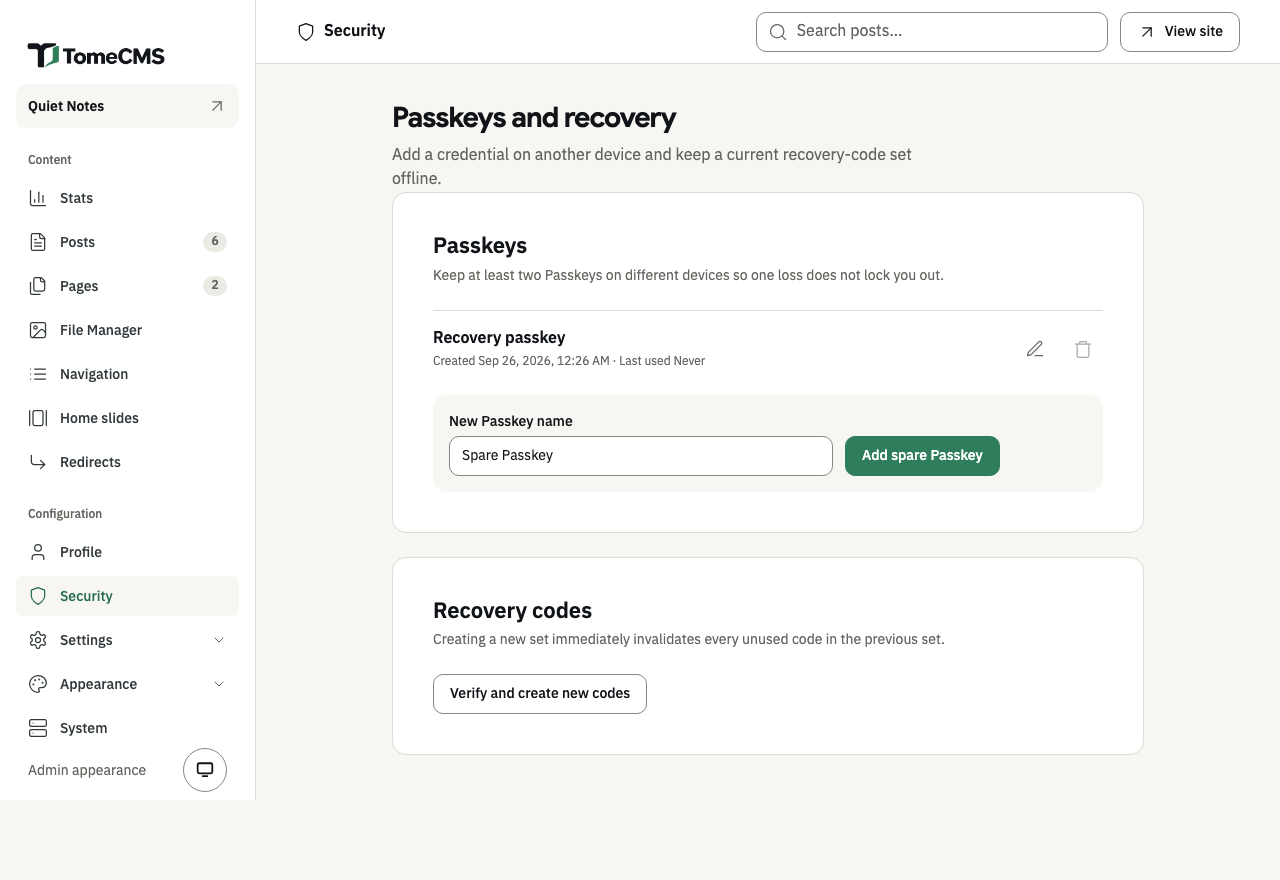
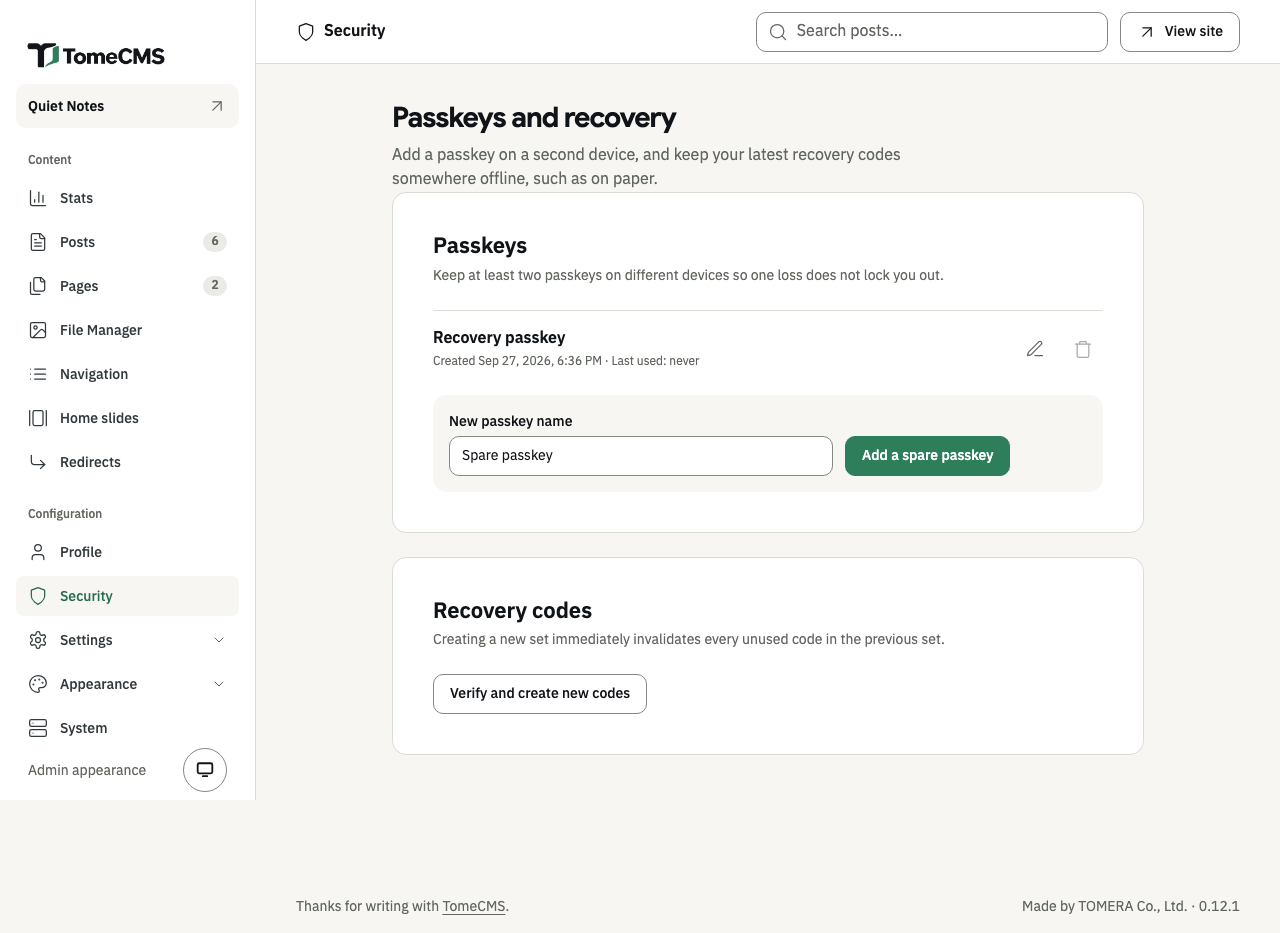
docs: the screenshots and their descriptions show the admin's new words
Retakes all 30 admin screenshots (15 screens, English and Thai) so they
show the plainer, consistent copy from the earlier tasks, and rewrites
every image's alt text to match: quoting the real labels, fixing two
alt texts that had always described the wrong language's tab, and
updating numbers the stats screenshot's 30-day window naturally moves.
Adds a changelog line summarizing the copy pass, and fixes a stale
em-dash assertion in tests/e2e/stats.spec.ts that the earlier "no
dashes" fix had missed.

diff --git a/tests/e2e/stats.spec.ts b/tests/e2e/stats.spec.ts
@@ -178,7 +178,7 @@ test('a site that has never counted a reader shows the report at zero, with an e
   const summary = page.locator('.stats-summary > div');
   await expect(summary.nth(0).locator('.stats-summary__value')).toHaveText('0');
   await expect(summary.nth(1).locator('.stats-summary__value')).toHaveText('0');
-  await expect(summary.nth(2).locator('.stats-summary__value')).toContainText('—');
+  await expect(summary.nth(2).locator('.stats-summary__value')).toContainText('-');
   await expect(summary.nth(2).locator('.stats-summary__value .sr-only')).toHaveText('No reads yet');
   for (let index = 0; index < 3; index += 1) {
     await expect(summary.nth(index).locator('.stats-summary__change'), 'no change arrow at zero').toHaveText('Nothing to compare with yet');

diff --git a/website/src/content/docs/th/admin/settings.md b/website/src/content/docs/th/admin/settings.md
@@ -56,7 +56,7 @@ sidebar:
 
 เมนู "ความปลอดภัย" เปิดหน้า "Passkey และการกู้คืน" TomeCMS ไม่มีรหัสผ่าน คุณเข้าสู่ระบบด้วย passkey ที่เก็บอยู่ในอุปกรณ์ของคุณ หน้านี้ใช้เพิ่ม passkey อันที่สอง และสร้างรหัสกู้คืนชุดใหม่ เพื่อไม่ให้การเสียอุปกรณ์เครื่องเดียวทำให้เข้าระบบไม่ได้
 
-![หน้า "Passkey และการกู้คืน" ในส่วน "Passkey ทั้งหมด" มี passkey หนึ่งอันชื่อ Recovery passkey สร้างเมื่อ 26 ก.ย. 2569 และยังไม่เคยใช้ มีปุ่มรูปดินสอและถังขยะอยู่ข้าง ๆ ข้างล่างมีช่อง "ชื่อ Passkey ใหม่" และปุ่ม "เพิ่ม Passkey สำรอง" ในส่วน "รหัสกู้คืน" มีปุ่ม "ยืนยันตัวตนแล้วสร้างรหัสชุดใหม่"](../../../../assets/screenshots/th/security.png)
+![หน้า "Passkey และการกู้คืน" ในส่วน "Passkey ทั้งหมด" มี passkey หนึ่งอันชื่อ Recovery passkey สร้างเมื่อ 27 ก.ย. 2569 และยังไม่เคยใช้ มีปุ่มรูปดินสอและถังขยะอยู่ข้าง ๆ ข้างล่างมีช่อง "ชื่อ passkey ใหม่" และปุ่ม "เพิ่ม passkey สำรอง" ในส่วน "รหัสกู้คืน" มีปุ่ม "ยืนยันตัวตนแล้วสร้างรหัสชุดใหม่"](../../../../assets/screenshots/th/security.png)
 
 ### Passkey ของคุณ
 
@@ -78,4 +78,4 @@ sidebar:
 
 เมนู "ปิดปรับปรุง" ใต้ "ตั้งค่า" ใช้ปิดหน้าเว็บสาธารณะระหว่างที่คุณปรับปรุงเว็บ และแสดงหน้าที่คุณเลือกให้ผู้เข้าชมเห็นแทน หน้า[ปิดปรับปรุง](/tome-cms/th/running/maintenance/) อธิบายหน้านี้ทีละขั้น
 
-![หน้า "ปิดปรับปรุง" ในส่วน "สถานะ" บอกว่าเว็บเปิดให้ทุกคนเข้าชมตามปกติ และสวิตช์ "ปิดเว็บเพื่อปรับปรุง" ปิดอยู่ ในส่วน "แบบ" มี "เรียบง่าย" ซึ่งถูกเลือกไว้ "โลโก้" "รูปภาพ" และ "นับถอยหลัง" ในส่วน "ข้อความที่แสดง" เลือกแท็บ "ไทย" ไว้ ช่องหัวข้อและรายละเอียดมีข้อความภาษาไทยสีเทา ในส่วน "กลับมาประมาณ" ช่อง "วันและเวลา" ว่างอยู่ ปุ่ม "บันทึก" และ "ดูตัวอย่าง" อยู่ด้านล่าง](../../../../assets/screenshots/th/maintenance.png)
+![หน้า "ปิดปรับปรุง" ในส่วน "สถานะ" บอกว่าเว็บเปิดให้ทุกคนเข้าชมตามปกติ และสวิตช์ "ปิดเว็บเพื่อปรับปรุง" ปิดอยู่ ในส่วน "แบบ" มี "เรียบง่าย" ซึ่งถูกเลือกไว้ "โลโก้" "ภาพ" และ "นับถอยหลัง" ในส่วน "ข้อความที่แสดง" เลือกแท็บ "ไทย" ไว้ ช่องหัวข้อและรายละเอียดมีข้อความภาษาไทยสีเทา ในส่วน "กลับมาประมาณ" ช่อง "วันและเวลา" ว่างอยู่ ปุ่ม "บันทึก" และ "ดูตัวอย่าง" อยู่ด้านล่าง](../../../../assets/screenshots/th/maintenance.png)

diff --git a/website/src/content/docs/th/running/updating.md b/website/src/content/docs/th/running/updating.md
@@ -9,7 +9,7 @@ TomeCMS ตอนนี้ยังเป็นรุ่นพรีวิวก
 
 หน้าแอดมินยังติดตั้งอัปเดตเองไม่ได้ ที่เมนู "ระบบ" จะแสดงเวอร์ชันของคุณไว้ข้าง "เวอร์ชันที่ติดตั้งอยู่:" และตรวจกับ repository ทางการบน GitHub ได้ว่ามีรุ่น stable ที่ใหม่กว่าหรือยัง ในการติดตั้งตอนนี้ หน้านั้นจะขึ้นว่า "อัปเดตจากหน้าผู้ดูแลไม่ได้" และ "โหมดการอัปเดต:" เป็น "แจ้งเตือนอย่างเดียว" การตรวจจะเทียบเวอร์ชันของคุณกับเวอร์ชันล่าสุดที่ออกเป็น GitHub release โดย 0.12.1 เป็นเวอร์ชันแรก เว็บที่ติดตั้งจาก 0.12.0 จึงจะเห็นว่ามี 0.12.1 ให้อัปเดต
 
-![หน้า "ระบบ" หัวข้อ "อัปเดตระบบ" มีการ์ด "สถานะการอัปเดต" ที่มี "สถานะเวอร์ชัน: เป็นเวอร์ชันล่าสุดแล้ว", "เวอร์ชันที่ติดตั้งอยู่: 0.12.1", "เวอร์ชันเสถียรล่าสุด: 0.12.1", "เผยแพร่เมื่อ: 26 ก.ย. 2569" และ "TomeCMS เป็นเวอร์ชันล่าสุดแล้ว" มีลิงก์ "อ่านบันทึกการเปลี่ยนแปลง" และปุ่ม "ตรวจสอบอีกครั้ง" ด้านล่างเป็นการ์ด "ใช้การอัปเดตแบบจัดการให้ไม่ได้" ที่บอกว่า "การติดตั้งนี้ตั้งค่าให้ตรวจสอบเวอร์ชันใหม่ได้อย่างเดียว" และ "โหมดการอัปเดต:" เป็น "check-only"](../../../../assets/screenshots/th/system.png)
+![หน้า "ระบบ" หัวข้อ "อัปเดตระบบ" มีการ์ด "สถานะการอัปเดต" ที่มี "สถานะเวอร์ชัน: เป็นเวอร์ชันล่าสุดแล้ว", "เวอร์ชันที่ติดตั้งอยู่: 0.12.1", "เวอร์ชันเสถียรล่าสุด: 0.12.1", "เผยแพร่เมื่อ: 26 ก.ย. 2569" และ "TomeCMS เป็นเวอร์ชันล่าสุดแล้ว" มีลิงก์ "อ่านบันทึกการเปลี่ยนแปลง" และปุ่ม "ตรวจสอบอีกครั้ง" ด้านล่างเป็นการ์ด "อัปเดตจากหน้าผู้ดูแลไม่ได้" ที่บอกว่า "เซิร์ฟเวอร์นี้แจ้งได้ว่ามีเวอร์ชันใหม่ แต่ติดตั้งเองไม่ได้ ถ้าจะอัปเดต ให้ทำตามคู่มือการอัปเดตบนเซิร์ฟเวอร์" และ "โหมดการอัปเดต:" เป็น "แจ้งเตือนอย่างเดียว"](../../../../assets/screenshots/th/system.png)
 
 ## อัปเกรดเว็บที่เป็น 0.x
 

diff --git a/website/src/content/docs/admin/settings.md b/website/src/content/docs/admin/settings.md
@@ -45,7 +45,7 @@ Press "Save". When you change the site name, the language or the time zone, the 
 
 "Profile" is the author the site shows with your writing. Nothing here is required.
 
-![The Profile screen with three cards. "Identity" has an empty "Author name", a "Choose avatar" button and "No avatar selected". "Bio" has two empty fields, one marked English and one marked Thai. "Links" says links you add appear under your author bio, above an "Add link" button. "Save" is at the bottom.](../../../assets/screenshots/en/profile.png)
+![The Profile screen with three cards. "Identity" has an empty "Author name", a "Choose profile picture" button and "No profile picture selected". "Bio" has two empty fields, one marked English and one marked Thai. "Links" says links you add appear under your author bio, above an "Add link" button. "Save" is at the bottom.](../../../assets/screenshots/en/profile.png)
 
 1. Under "Identity", type the "Author name", up to 120 characters. "Choose profile picture" picks an image from the File Manager, and the bin beside it, "Remove profile picture", takes it off. While the image is your profile picture, the File Manager will not delete it.
 2. Under "Bio", write a short biography in English and in Thai, up to 1,000 characters each. Each post shows the one in the language the reader is reading.
@@ -56,7 +56,7 @@ Press "Save". When you change the site name, the language or the time zone, the 
 
 "Security" opens "Passkeys and recovery". TomeCMS has no password: you sign in with a passkey your device keeps. This screen is where you add a second one and replace your recovery codes, so that losing a device does not lock you out.
 
-![The Passkeys and recovery screen. Under "Passkeys" is one passkey, "Recovery passkey", created on Sep 26, 2026 and never used, with a pencil and a bin beside it. Below it are the "New Passkey name" field and "Add spare Passkey". Under "Recovery codes" is the button "Verify and create new codes".](../../../assets/screenshots/en/security.png)
+![The Passkeys and recovery screen. Under "Passkeys" is one passkey, "Recovery passkey", created on Sep 27, 2026 and never used, with a pencil and a bin beside it. Below it are the "New passkey name" field and "Add a spare passkey". Under "Recovery codes" is the button "Verify and create new codes".](../../../assets/screenshots/en/security.png)
 
 ### Your passkeys
 
@@ -78,4 +78,4 @@ If your session has ended while the screen is open, it asks you to "Verify the T
 
 "Maintenance", under "Settings", closes the public site while you work on it and shows visitors a page of your choosing. [Maintenance mode](/tome-cms/running/maintenance/) walks through the screen.
 
-![The Maintenance screen. "Status" says the site is open to everyone, with the switch "Close the site for maintenance" off. "Template" offers "Minimal", which is chosen, "Logo", "Picture" and "Countdown". "Words" has the "ไทย" tab chosen, with a Thai heading and message shown in grey. "Back around" has an empty "Date and time". "Save" and "Preview" are at the bottom.](../../../assets/screenshots/en/maintenance.png)
+![The Maintenance screen. "Status" says the site is open to everyone, with the switch "Close the site for maintenance" off. "Template" offers "Minimal", which is chosen, "Logo", "Image" and "Countdown". "Words" has the "English" tab chosen, with "Down for maintenance" and "We'll be back soon." shown in grey. "Back around" has an empty "Date and time". "Save" and "Preview" are at the bottom.](../../../assets/screenshots/en/maintenance.png)

diff --git a/website/src/content/docs/th/admin/stats.md b/website/src/content/docs/th/admin/stats.md
@@ -9,7 +9,7 @@ sidebar:
 
 ก่อนจะมีผู้อ่านคนแรกถูกนับ หน้านี้จะแสดงรายงานที่ตัวเลขเป็นศูนย์ทั้งหมด ใต้ข้อความแจ้งที่มีหัวข้อว่า "ยังไม่มีผู้อ่านที่ถูกนับ" ข้อความนั้นบอกว่าตัวเลขจะขึ้นเมื่อมีคนเปิดบทความหรือเพจที่เผยแพร่แล้ว และเบราว์เซอร์ที่คุณใช้เปิดหน้าผู้ดูแลจะไม่ถูกนับ ถ้าอยากเห็นตัวเลข ให้เปิดเว็บไซต์จากมือถือหรือเบราว์เซอร์อื่น ระหว่างนี้อัตราการอ่านจะแสดงเป็นขีด และทุกรายการและตารางด้านล่างจะขึ้นว่า "ช่วงนี้ยังไม่มีการเข้าชม"
 
-![หน้า "สถิติ" ที่เลือก "30 วันล่าสุด" และ "ทุกภาษา" ไว้ ยอดเข้าชม 606 เพิ่มขึ้น 35% ยอดอ่าน 193 เพิ่มขึ้น 38% และอัตราการอ่าน 32% เพิ่มขึ้น 1 จุด ข้างล่างเป็นกราฟแท่งยอดเข้าชมและยอดอ่านรายวัน ตามด้วย "ผู้อ่านมาจากไหน" ที่มี "เข้าโดยตรง" และ news.example "อุปกรณ์" ที่มี "คอมพิวเตอร์" และ "มือถือ" "ประเทศ" ที่มีไทยและสหรัฐอเมริกาอยู่เหนือลิงก์ให้เครดิต DB-IP "ภาษา" ที่มีอังกฤษ และตาราง "บทความและหน้า" ที่มีบทความหนึ่งเรื่อง](../../../../assets/screenshots/th/stats.png)
+![หน้า "สถิติ" ที่เลือก "30 วันล่าสุด" และ "ทุกภาษา" ไว้ ยอดเข้าชม 631 เพิ่มขึ้น 42% ยอดอ่าน 201 เพิ่มขึ้น 46% และอัตราการอ่าน 32% เพิ่มขึ้น 1 จุด ข้างล่างเป็นกราฟแท่งยอดเข้าชมและยอดอ่านรายวัน ตามด้วย "ผู้อ่านมาจากไหน" ที่มี "เข้าโดยตรง" และ news.example "อุปกรณ์" ที่มี "คอมพิวเตอร์" และ "มือถือ" "ประเทศ" ที่มีไทยและสหรัฐอเมริกาอยู่เหนือลิงก์ให้เครดิต DB-IP "ภาษา" ที่มีอังกฤษ และตาราง "บทความและเพจ" ที่มีบทความหนึ่งเรื่อง](../../../../assets/screenshots/th/stats.png)
 
 ## เลือกสิ่งที่จะดู
 

diff --git a/website/src/content/docs/th/admin/pages-and-menus.md b/website/src/content/docs/th/admin/pages-and-menus.md
@@ -9,7 +9,7 @@ sidebar:
 
 ## รายการเพจ
 
-![หน้า "หน้า" ที่มีสองหน้าซึ่งเผยแพร่แล้ว คือ "เกี่ยวกับเรา" ที่ /th/เกี่ยวกับเรา และ "About" ที่ /en/about แต่ละหน้ามีบรรทัด "ยังไม่มี" ของอีกภาษา](../../../../assets/screenshots/th/pages.png)
+![หน้า "เพจ" ที่มีสองเพจซึ่งเผยแพร่แล้ว คือ "เกี่ยวกับเรา" ที่ /th/เกี่ยวกับเรา และ "About" ที่ /en/about แต่ละเพจมีบรรทัด "ยังไม่มี" ของอีกภาษา](../../../../assets/screenshots/th/pages.png)
 
 แต่ละแถวคือหนึ่งเพจ มีบรรทัดของทุกฉบับภาษาที่เขียนไว้ พร้อมที่อยู่ สถานะ และวันที่ตามเขตเวลาของเว็บ แท็บ "ฉบับร่าง" "เผยแพร่แล้ว" และ "ทั้งหมด" ใช้แบบเดียวกับของบทความ ช่อง "ค้นหาเพจ" ใช้หาเพจจากชื่อเรื่อง และช่อง "ภาษา" ใช้กรองรายการเมื่อกด "กรองข้อมูล"
 
@@ -37,7 +37,7 @@ sidebar:
 
 เลือก "เมนูส่วนหัว" หรือ "ส่วนท้าย" ก่อน แล้วจึงเลือกภาษา "ไทย" หรือ "English" เพื่อดูเมนูชุดนั้น
 
-![หน้า "เมนู" ที่เลือกแท็บ "แถบเมนู" และ "ไทย" ไว้ เมนูภาษาไทยมีสองรายการ คือ "หน้าแรก" ที่ชี้ไปหน้าแรก · /th และ "เกี่ยวกับเรา" ที่ชี้ไปหน้านั้น ทั้งสองรายการขึ้นว่า "แสดงอยู่" และมีปุ่ม "บันทึกเมนู" อยู่ข้างล่าง](../../../../assets/screenshots/th/navigation.png)
+![หน้า "เมนู" ที่เลือกแท็บ "เมนูส่วนหัว" และ "ไทย" ไว้ เมนูภาษาไทยมีสองรายการ คือ "หน้าแรก" ที่ชี้ไปหน้าแรก · /th และ "เกี่ยวกับเรา" ที่ชี้ไปหน้านั้น ทั้งสองรายการขึ้นว่า "แสดงอยู่" และมีปุ่ม "บันทึกเมนู" อยู่ข้างล่าง](../../../../assets/screenshots/th/navigation.png)
 
 ### เพิ่มรายการ
 

diff --git a/website/src/content/docs/th/admin/file-library.md b/website/src/content/docs/th/admin/file-library.md
@@ -7,7 +7,7 @@ sidebar:
 
 เมนู "คลังไฟล์" ใต้ "เนื้อหา" เก็บภาพและเอกสารทุกไฟล์ที่คุณอัปโหลดเข้าเว็บ หน้าแก้ไข "สไลด์หน้าแรก" "โปรไฟล์" หน้าปิดปรับปรุง และปลั๊กอิน "Popup" เลือกภาพจากที่นี่ บทความและเพจก็ลิงก์ไปยังเอกสารที่เก็บไว้ที่นี่ ไฟล์ที่อัปโหลดจากหน้าเหล่านั้นก็จะมาอยู่ในคลังนี้ด้วย
 
-![หน้า "คลังไฟล์" มีช่อง "ค้นหาไฟล์" และปุ่ม "อัปโหลดไฟล์" อยู่ด้านบน ถัดลงมามีตัวเลือกชนิดไฟล์ "ทั้งหมด" "รูป" "PDF" "เอกสาร" "ตารางคำนวณ" "สไลด์" และ "ZIP" มีโฟลเดอร์ "ไฟล์ทั้งหมด" และ "ยังไม่จัดหมวด" พร้อมช่อง "ชื่อโฟลเดอร์" และปุ่ม "สร้างโฟลเดอร์" ข้างล่างเป็นภาพ JPEG ขนาด 1600 × 900 พิกเซลสามภาพ แต่ละภาพบอกชื่อไฟล์และขนาด](../../../../assets/screenshots/th/media.png)
+![หน้า "คลังไฟล์" มีช่อง "ค้นหาไฟล์" และปุ่ม "อัปโหลดไฟล์" อยู่ด้านบน ถัดลงมามีตัวเลือกชนิดไฟล์ "ทั้งหมด" "ภาพ" "PDF" "เอกสาร" "ตารางคำนวณ" "สไลด์" และ "ZIP" มีโฟลเดอร์ "ไฟล์ทั้งหมด" และ "ยังไม่จัดหมวด" พร้อมช่อง "ชื่อโฟลเดอร์" และปุ่ม "สร้างโฟลเดอร์" ข้างล่างเป็นภาพ JPEG ขนาด 1600 × 900 พิกเซลสามภาพ แต่ละภาพบอกชื่อไฟล์และขนาด](../../../../assets/screenshots/th/media.png)
 
 ## อัปโหลดไฟล์
 

diff --git a/website/src/content/docs/th/admin/publishing.md b/website/src/content/docs/th/admin/publishing.md
@@ -43,7 +43,7 @@ sidebar:
 
 เมนู "การเปลี่ยนเส้นทาง" ใต้ "เนื้อหา" แสดงที่อยู่เก่าทุกอัน บทความหรือเพจที่แต่ละอันพาไป ที่อยู่ปัจจุบันของบทความหรือเพจนั้น และวันที่บันทึกการเปลี่ยนเส้นทางไว้ ถ้าบทความหรือเพจไม่ได้อยู่บนเว็บในตอนนั้น จะขึ้นว่า "ยังไม่เผยแพร่ ตอนนี้ URL นี้จึงขึ้นหน้าไม่พบ (404)" ปุ่มรูปถังขยะข้างแต่ละแถวใช้เลิกเปลี่ยนเส้นทางที่อยู่นั้น
 
-![หน้า "การเปลี่ยนเส้นทาง" ที่มีฟอร์ม "ส่งต่อ URL เก่า" ประกอบด้วยเมนู "บทความ" ที่ขึ้นว่า "เลือกบทความ" ช่อง "URL เก่า" และปุ่ม "ส่งต่อ" ข้างล่างเป็นข้อความว่ายังไม่มี URL เก่า](../../../../assets/screenshots/th/redirects.png)
+![หน้า "การเปลี่ยนเส้นทาง" ที่มีฟอร์ม "เปลี่ยนเส้นทาง URL เก่า" ประกอบด้วยเมนู "บทความหรือเพจ" ที่ขึ้นว่า "เลือกบทความหรือเพจ" ช่อง "URL เก่า" และปุ่ม "เปลี่ยนเส้นทาง" ข้างล่างเป็นข้อความว่ายังไม่มี URL เก่า](../../../../assets/screenshots/th/redirects.png)
 
 ฟอร์ม "เปลี่ยนเส้นทาง URL เก่า" ใช้เพิ่มการเปลี่ยนเส้นทางเอง สำหรับที่อยู่ที่เปลี่ยนไปก่อนระบบเริ่มบันทึกการเปลี่ยนเส้นทาง หรือที่อยู่ที่อยากให้ชี้ไปที่อื่น
 

diff --git a/website/src/content/docs/admin/writing.md b/website/src/content/docs/admin/writing.md
@@ -7,7 +7,7 @@ sidebar:
 
 "Posts", under "Content" in the admin, lists every post you have written, and the editor is where you write one. A post can have a Thai edition and an English edition. Each is written on its own, and the list keeps them together on one card.
 
-![The Posts screen with six posts as cards. Each card has a cover picture, a category, a Thai or English edition with its status, and a "missing" line for the language not written yet.](../../../assets/screenshots/en/posts.png)
+![The Posts screen with six posts as cards. Each card has a cover picture, a category, a Thai or English edition with its status, and a "Not written" line for the language not written yet.](../../../assets/screenshots/en/posts.png)
 
 ## Finding a post
 
@@ -21,7 +21,7 @@ Each card is one post. It shows every edition you have written, with its status,
 
 Press "New post". The editor opens in the site's default language. Type the title where "Untitled post" is in grey, and the post below it, where the editor says "Type '/' for commands". A title takes up to 200 characters.
 
-![The editor with an English post open. The bar at the top has "Back to Posts", the chips "TH missing" and "EN Published", the word "Saved", and the buttons "Preview", "Settings" and "Update". Below it are the title, a heading, a list and a picture.](../../../assets/screenshots/en/editor.png)
+![The editor with an English post open. The bar at the top has "Back to Posts", the chips "TH Not written" and "EN Published", the word "Saved", and the buttons "Preview", "Settings" and "Update". Below it are the title, a heading, a list and a picture.](../../../assets/screenshots/en/editor.png)
 
 The editor saves on its own a moment after you stop typing, once the post has a title. The bar says "Saving…" and then "Saved". If a save fails, it says "Save failed" and offers "Retry save", and what you wrote stays on the screen. "Back to Posts" saves before it leaves. When it cannot save, the admin asks first, with "Leave without saving?".
 

diff --git a/website/src/content/docs/admin/pages-and-menus.md b/website/src/content/docs/admin/pages-and-menus.md
@@ -9,7 +9,7 @@ sidebar:
 
 ## The list of pages
 
-![The Pages screen with two published pages, "เกี่ยวกับเรา" at /th/เกี่ยวกับเรา and "About" at /en/about, each with a "missing" line for its other language.](../../../assets/screenshots/en/pages.png)
+![The Pages screen with two published pages, "เกี่ยวกับเรา" at /th/เกี่ยวกับเรา and "About" at /en/about, each with a "Not written" line for its other language.](../../../assets/screenshots/en/pages.png)
 
 Each row is one page, with a line for every language edition you have written, its address, its status and its date in the site's time zone. The tabs "Drafts", "Published" and "All" work as they do for posts. "Search pages" finds a page by its title, and "Language" narrows the list once you press "Apply filters".
 
@@ -37,7 +37,7 @@ With the "Jev (TypeSafe AI)" plugin on, the drawer offers a line for the excerpt
 
 Choose "Header menu" or "Footer" first, then the language, "ไทย" or "English", to see that menu.
 
-![The Navigation screen with the "MenuBar" and "ไทย" tabs chosen. The Thai menu has two items, "หน้าแรก" pointing at Home · /th and "เกี่ยวกับเรา" pointing at that page, both "Visible", with a "Save menu" button below.](../../../assets/screenshots/en/navigation.png)
+![The Navigation screen with the "Header menu" and "English" tabs chosen. The English menu has two items, "Home" pointing at Home · /en and "About" pointing at that page, both "Visible", with a "Save menu" button below.](../../../assets/screenshots/en/navigation.png)
 
 ### Adding an item
 

diff --git a/website/src/content/docs/running/updating.md b/website/src/content/docs/running/updating.md
@@ -9,7 +9,7 @@ TomeCMS is still a pre-1.0 preview. You upgrade a 0.x install in place, from a n
 
 The admin cannot install an update yet. Under "System" it shows your version next to "Installed version:" and can check the official repository on GitHub for a newer stable release. On today's install that screen says "Updating from the admin is off", and "Update mode:" reads "Notify only". The check compares your version with the latest version published as a GitHub release. 0.12.1 is the first, so an install from 0.12.0 reads "TomeCMS 0.12.1 is available." there.
 
-![The System screen. "System updates" shows an "Update status" card with "Release availability: Up to date", "Installed version: 0.12.1", "Latest stable version: 0.12.1", "Published: Sep 26, 2026" and "TomeCMS is up to date.", a "Read release notes" link, and a "Check again" button. Below it, a "Managed updates unavailable" card says "This installation is configured for update checks only.", with "Update mode:" reading "check-only".](../../../assets/screenshots/en/system.png)
+![The System screen. "System updates" shows an "Update status" card with "Release availability: Up to date", "Installed version: 0.12.1", "Latest stable version: 0.12.1", "Published: Sep 26, 2026" and "TomeCMS is up to date.", a "Read release notes" link, and a "Check again" button. Below it, an "Updating from the admin is off" card says "This server can tell you about new versions but cannot install them. To update, follow the update guide on the server.", with "Update mode:" reading "Notify only".](../../../assets/screenshots/en/system.png)
 
 ## Upgrading a 0.x install
 

diff --git a/website/src/content/docs/admin/stats.md b/website/src/content/docs/admin/stats.md
@@ -9,7 +9,7 @@ sidebar:
 
 Until the first reader is counted, the screen shows the report at zero under a notice headed "Nobody counted yet". The notice explains that numbers appear once someone opens a published post or page, and that the browser you use for the admin is not counted. To see a number, open your site on your phone or in another browser. In the meantime the read ratio shows a dash, and each list and table below says "Nothing was viewed in this period."
 
-![The Stats screen for "Last 30 days" and "All languages": 606 views, up 35%, 193 reads, up 38%, and a read ratio of 32%, up 1 point. Below are a bar chart of views and reads per day, then "Where readers came from" with "Direct" and news.example, "Devices" with "Computer" and "Phone", "Countries" with Thailand and United States above the DB-IP credit, "Languages" with English, and a table of "Articles and pages" with one article.](../../../assets/screenshots/en/stats.png)
+![The Stats screen for "Last 30 days" and "All languages": 631 views, up 42%, 201 reads, up 46%, and a read ratio of 32%, up 1 point. Below are a bar chart of views and reads per day, then "Where readers came from" with "Direct" and news.example, "Devices" with "Computer" and "Phone", "Countries" with Thailand and United States above the DB-IP credit, "Languages" with English, and a table of "Posts and pages" with one post.](../../../assets/screenshots/en/stats.png)
 
 ## Choosing what to see
 
